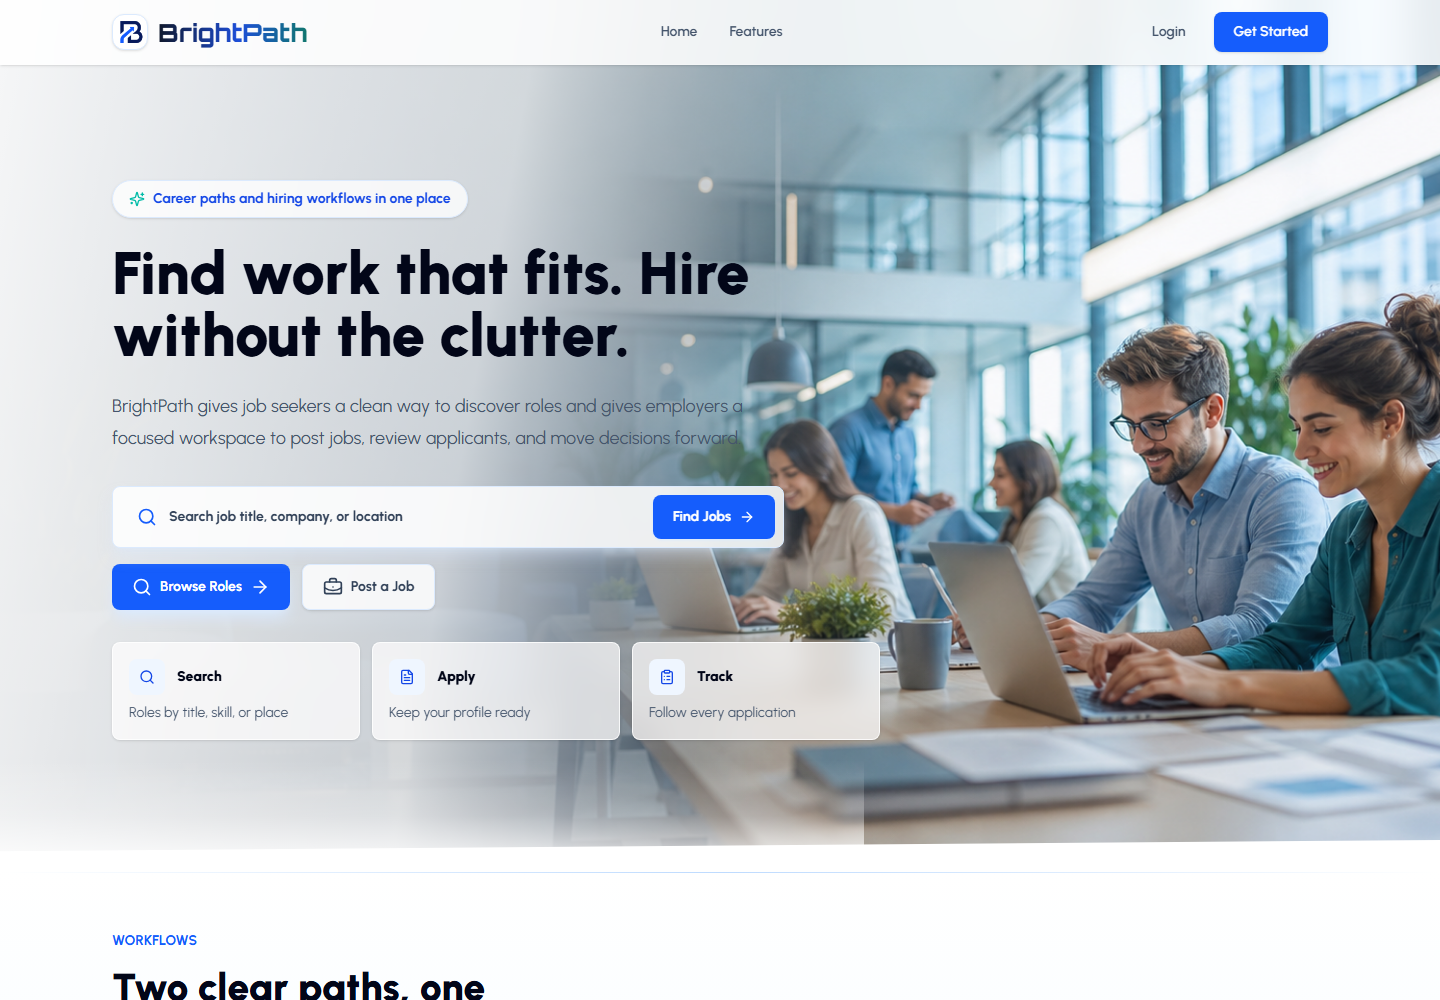
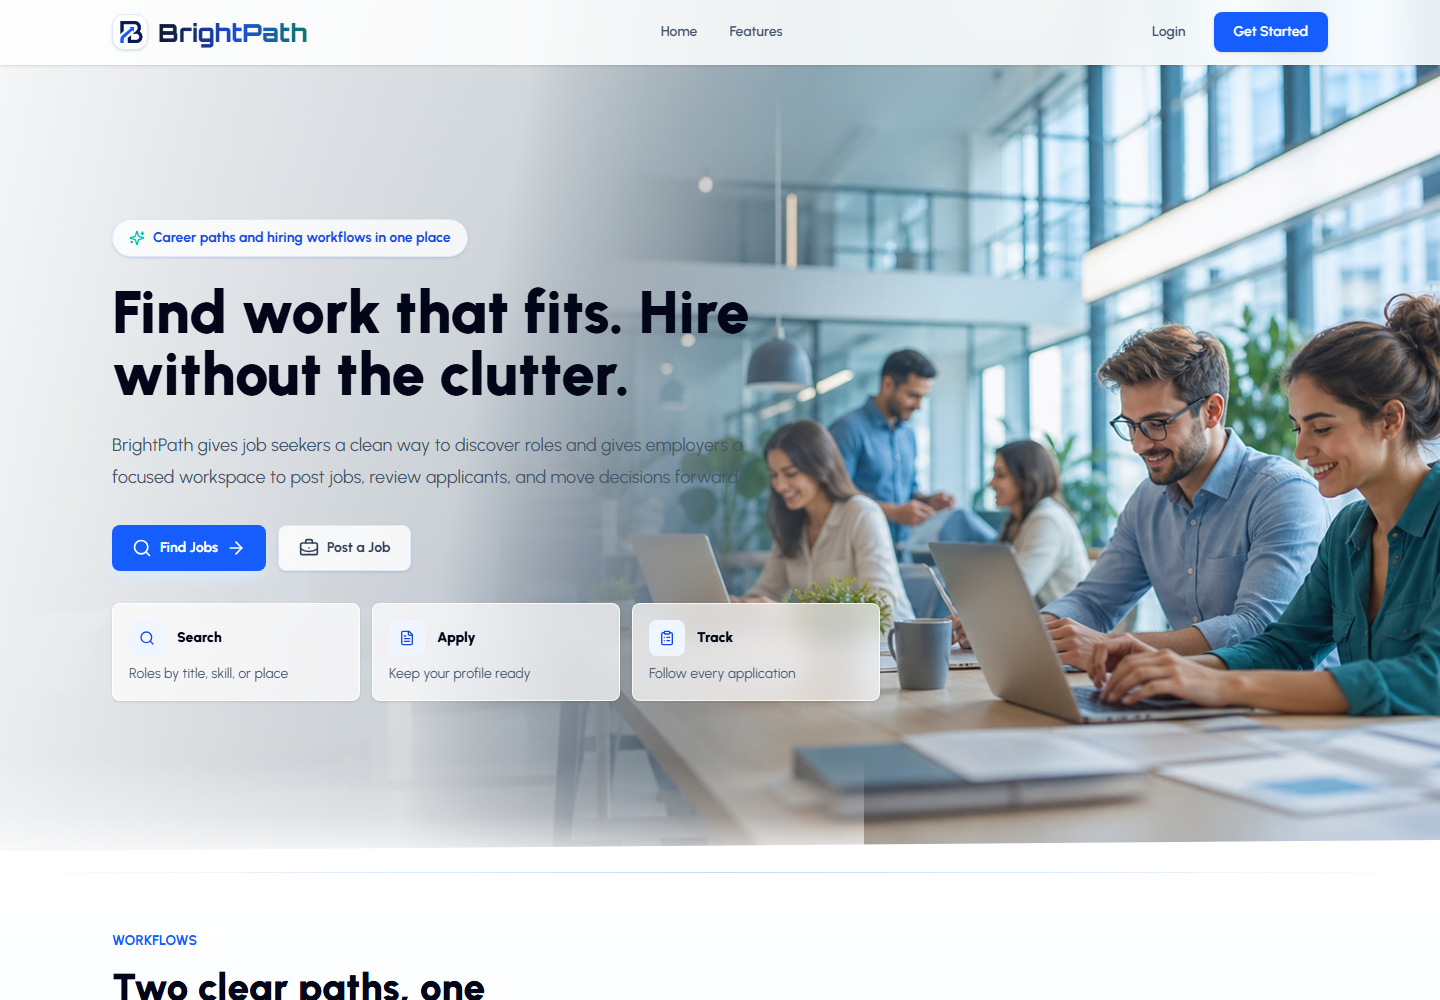
Simplify landing hero calls to action

Changed region(s): [[0.0625, 0.155, 0.625, 0.744]]

diff --git a/frontend/job-portal/src/pages/LandingPage/components/Hero.jsx b/frontend/job-portal/src/pages/LandingPage/components/Hero.jsx
@@ -49,31 +49,13 @@ const Hero = () => {
             and move decisions forward.
           </p>
 
-          <div className="mt-8 grid max-w-2xl gap-2 rounded-lg border border-blue-100 bg-white/86 p-2 shadow-lg shadow-blue-100/50 backdrop-blur-md sm:grid-cols-[1fr_auto]">
-            <button
-              type="button"
-              onClick={() => navigate("/find-jobs")}
-              className="flex items-center gap-3 rounded-lg px-4 py-3 text-left text-sm font-bold text-slate-700 transition-colors hover:bg-blue-50"
-            >
-              <Search className="h-5 w-5 text-blue-600" />
-              Search job title, company, or location
-            </button>
-            <button
-              className="group inline-flex items-center justify-center gap-2 rounded-lg bg-blue-600 px-5 py-3 text-sm font-bold text-white shadow-sm shadow-blue-100 transition-colors hover:bg-blue-700"
-              onClick={() => navigate("/find-jobs")}
-            >
-              Find Jobs
-              <ArrowRight className="h-4 w-4 transition-transform group-hover:translate-x-1" />
-            </button>
-          </div>
-
-          <div className="mt-4 flex flex-col gap-3 sm:flex-row">
+          <div className="mt-8 flex flex-col gap-3 sm:flex-row">
             <button
               className="group inline-flex items-center justify-center gap-2 rounded-lg bg-blue-600 px-5 py-3 text-sm font-bold text-white shadow-lg shadow-blue-100 transition-all hover:bg-blue-700"
               onClick={() => navigate("/find-jobs")}
             >
               <Search className="h-5 w-5" />
-              Browse Roles
+              Find Jobs
               <ArrowRight className="h-5 w-5 transition-transform group-hover:translate-x-1" />
             </button>
 
